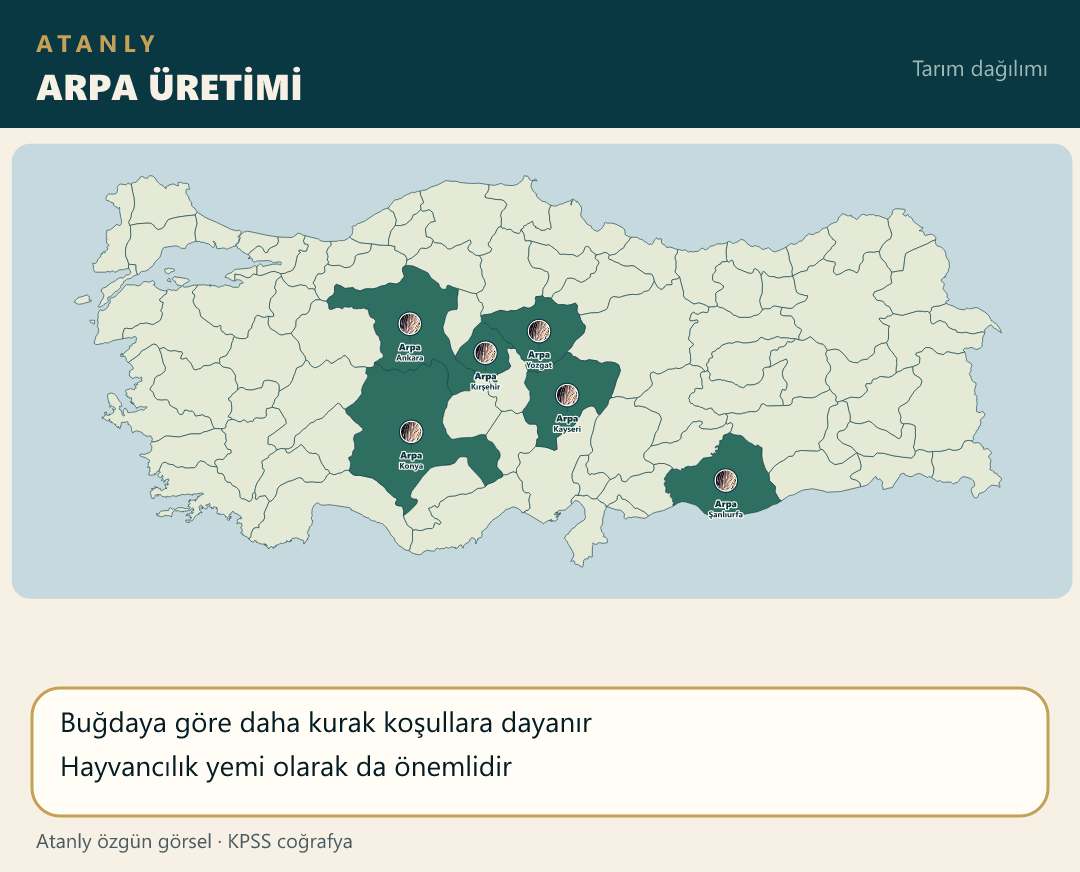
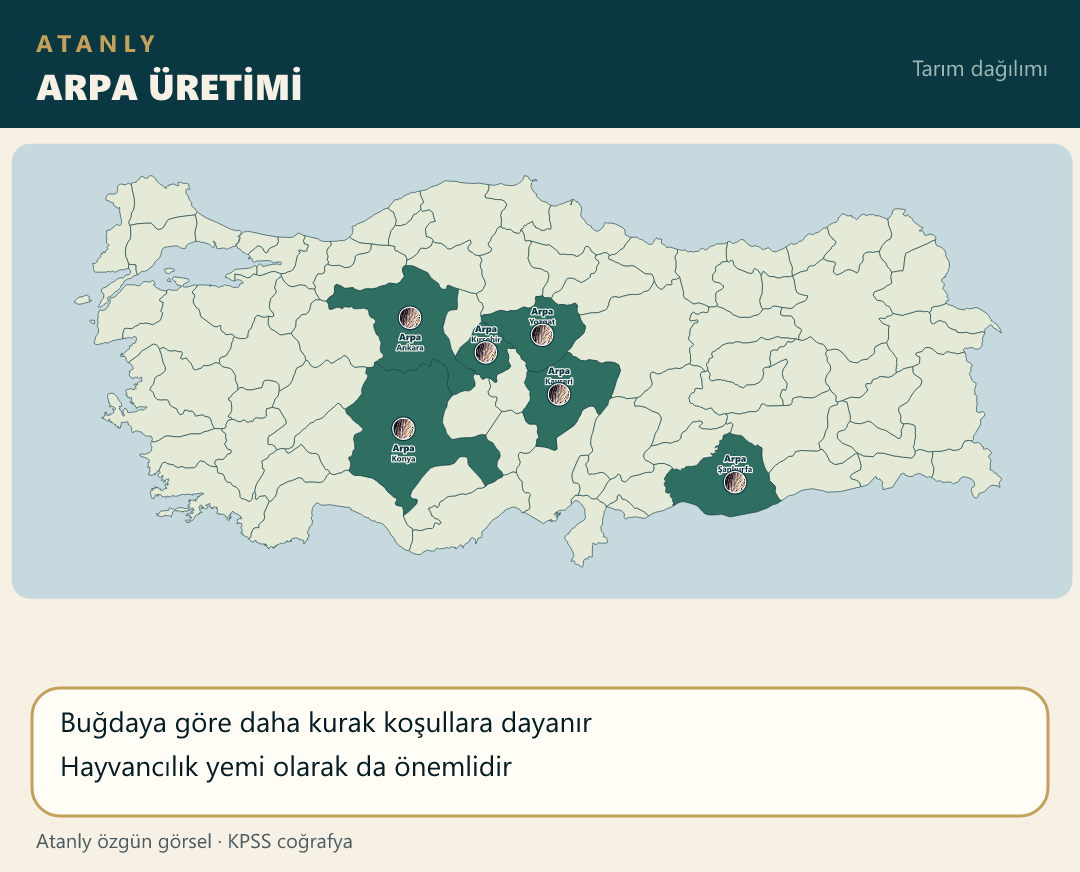
Keep coastal crop pins on land, not in the gulf.

diff --git a/scripts/build-atanly-maps.js b/scripts/build-atanly-maps.js
@@ -100,22 +100,55 @@ function pointInPoly(pts, x, y) {
     return inside;
 }
 
-function visualCenter(bb) {
+function distToSeg(x, y, x1, y1, x2, y2) {
+    var dx = x2 - x1, dy = y2 - y1;
+    var len2 = dx * dx + dy * dy;
+    var t = len2 ? Math.max(0, Math.min(1, ((x - x1) * dx + (y - y1) * dy) / len2)) : 0;
+    return Math.hypot(x - (x1 + t * dx), y - (y1 + t * dy));
+}
+
+function minEdgeDist(pts, x, y) {
+    var d = 1e9, i, j;
+    for (i = 0, j = pts.length - 1; i < pts.length; j = i++) {
+        d = Math.min(d, distToSeg(x, y, pts[j][0], pts[j][1], pts[i][0], pts[i][1]));
+    }
+    return d;
+}
+
+function visualCenter(bb, capX, capY) {
     var pts = bb.pts || [];
     if (pts.length < 3) return { x: bb.cx, y: bb.cy };
-    var sx = 0, sy = 0, n = 0;
-    var step = Math.max(3, Math.min(bb.w, bb.h) / 22);
-    var x, y;
-    for (y = bb.minY + step / 2; y < bb.maxY; y += step) {
-        for (x = bb.minX + step / 2; x < bb.maxX; x += step) {
+    var capOk = capX != null && pointInPoly(pts, capX, capY);
+    if (!pointInPoly(pts, bb.cx, bb.cy) && capOk) {
+        var dirs = [[0, -12], [0, -18], [10, -12], [-10, -12], [0, 12], [14, 0], [-14, 0]];
+        var i, nx, ny;
+        for (i = 0; i < dirs.length; i++) {
+            nx = capX + dirs[i][0];
+            ny = capY + dirs[i][1];
+            if (pointInPoly(pts, nx, ny) && minEdgeDist(pts, nx, ny) >= 14) return { x: nx, y: ny };
+        }
+        return { x: capX, y: capY };
+    }
+    var best = { x: capOk ? capX : bb.cx, y: capOk ? capY : bb.cy, s: capOk ? minEdgeDist(pts, capX, capY) : -1 };
+    var step = Math.max(2.5, Math.min(bb.w, bb.h) / 28);
+    var x, y, s, r;
+    for (y = bb.minY + 8; y < bb.maxY - 8; y += step) {
+        for (x = bb.minX + 8; x < bb.maxX - 8; x += step) {
             if (!pointInPoly(pts, x, y)) continue;
-            sx += x;
-            sy += y;
-            n++;
+            s = minEdgeDist(pts, x, y);
+            if (s > best.s) best = { x: x, y: y, s: s };
         }
     }
-    if (!n) return { x: bb.cx, y: bb.cy };
-    return { x: sx / n, y: sy / n };
+    r = step;
+    for (y = best.y - r; y <= best.y + r; y += 1.2) {
+        for (x = best.x - r; x <= best.x + r; x += 1.2) {
+            if (!pointInPoly(pts, x, y)) continue;
+            s = minEdgeDist(pts, x, y);
+            if (s > best.s) best = { x: x, y: y, s: s };
+        }
+    }
+    if (capOk && best.y > capY + 6) return { x: capX, y: capY };
+    return { x: best.x, y: best.y };
 }
 
 function parseProvinces(svg) {
@@ -125,10 +158,9 @@ function parseProvinces(svg) {
     while ((m = re.exec(svg))) {
         var d = m[1];
         var bb = bboxFromPath(d);
-        var vc = visualCenter(bb);
         out.push({
             d: d, id: m[2], name: m[3], key: norm(m[3]),
-            cx: bb.cx, cy: bb.cy, vx: vc.x, vy: vc.y,
+            cx: bb.cx, cy: bb.cy, vx: bb.cx, vy: bb.cy, pts: bb.pts,
             minX: bb.minX, minY: bb.minY, maxX: bb.maxX, maxY: bb.maxY, w: bb.w, h: bb.h
         });
     }
@@ -142,6 +174,15 @@ function parseProvinces(svg) {
             }
         }
     }
+    out.forEach(function (p) {
+        var vc = visualCenter({
+            pts: p.pts, cx: p.cx, cy: p.cy,
+            minX: p.minX, minY: p.minY, maxX: p.maxX, maxY: p.maxY, w: p.w, h: p.h
+        }, p.capX, p.capY);
+        p.vx = vc.x;
+        p.vy = vc.y;
+        delete p.pts;
+    });
     return out;
 }
 
@@ -437,11 +478,12 @@ function cropMap(provs, opts) {
         }
         hi.push(row.il);
         var pos = districtXY(fp);
+        var ldy = (fp.maxY - pos.y) < 55 ? -20 : 22;
         pts.push({
             x: pos.x, y: pos.y, ox: pos.x, oy: pos.y,
             pinX: pos.x, pinY: pos.y,
             ldx: 0,
-            ldy: 26,
+            ldy: ldy,
             text: row.yazi || row.il,
             urun: opts.urun || "",
             il: row.il,

diff --git a/notlar/cografya-19-not.js b/notlar/cografya-19-not.js
@@ -2,7 +2,7 @@
 (function () {
     function harita(src, alt) {
         return '<div class="mt-4 overflow-hidden rounded-xl border border-blue-200 dark:border-blue-700/50 bg-white dark:bg-slate-800 p-2">' +
-            '<img src="./src/img/' + src + '?v=16" alt="' + alt + ' Haritası" class="w-full h-auto rounded-lg object-contain" loading="lazy">' +
+            '<img src="./src/img/' + src + '?v=17" alt="' + alt + ' Haritası" class="w-full h-auto rounded-lg object-contain" loading="lazy">' +
             "</div>";
     }
 

diff --git a/index.html b/index.html
@@ -117,7 +117,7 @@
     <script src="notlar/cografya-16-not.js?v=3"></script>
     <script src="notlar/cografya-17-not.js?v=3"></script>
     <script src="notlar/cografya-18-not.js?v=9"></script>
-    <script src="notlar/cografya-19-not.js?v=12"></script>
+    <script src="notlar/cografya-19-not.js?v=13"></script>
     <script src="notlar/cografya-20-not.js?v=1"></script>
     <script src="notlar/cografya-21-not.js?v=4"></script>
     <script src="notlar/vatandas-1-not.js?v=3"></script>
